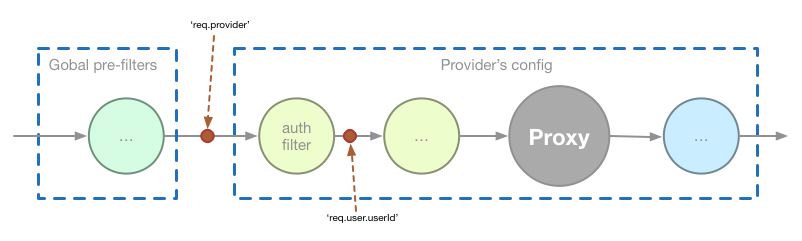
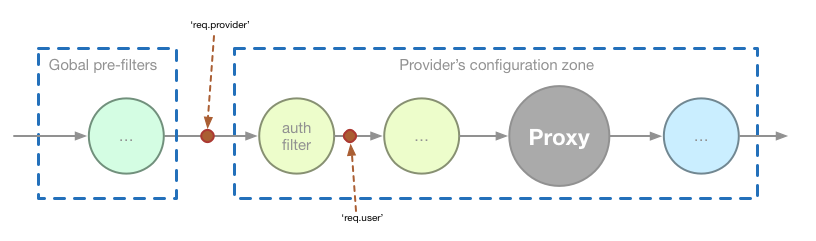
Modified so Clyde stores req.provider object

diff --git a/lib/clyde.js b/lib/clyde.js
@@ -23,7 +23,7 @@ function registerProviderMiddleware(clyde, proxy, provider) {
   provider.prefilters.forEach(function(filter) {
     // This is only for log purposes
     clyde.use(provider.context, function(req, res, next) {
-      log.debug({req: req, filter: filter.name, provider: provider.name}, "Before apply prefilter on provider...");
+      log.debug({req: req, filter: filter.id, provider: provider.id}, "Before apply prefilter on provider...");
       next();
     });
 
@@ -34,10 +34,16 @@ function registerProviderMiddleware(clyde, proxy, provider) {
   // Add provider middleware
   clyde.use(provider.context, function(req, res, next) {
 
-    // Create flag to indicate request has been processes by a provider.
-    req.provider = provider.context;
+    // Store provider's information in the request. This allow to know the
+    // request has entered in the "provider's zone" and also passes information
+    // to filters that needs providers data.
+    req.provider = {
+      name: provider.id,
+      context: provider.context,
+      target: provider.target
+    };
 
-    log.debug({req: req, provider: provider.name, target: provider.target}, "Sending request to provider...");
+    log.debug({req: req, provider: provider.id, target: provider.target}, "Sending request to provider...");
 
     // Proxy request to the provider
     proxy.web(req, res, {
@@ -49,7 +55,7 @@ function registerProviderMiddleware(clyde, proxy, provider) {
 
     // Log proxy response
     proxy.on("proxyRes", function(proxyRes) {
-      log.debug({res: proxyRes, provider: provider.name, target: provider.target}, "Received response from provider...");
+      log.debug({res: proxyRes, provider: provider.id, target: provider.target}, "Received response from provider...");
     });
 
     // Wait response finished and continue middleware chain.
@@ -66,7 +72,7 @@ function registerProviderMiddleware(clyde, proxy, provider) {
 
     // This is only for log purposes
     clyde.use(provider.context, function(request, response, next) {
-      log.debug({res: response, filter: filter.name, provider: provider.name}, "After apply postfilter on provider...");
+      log.debug({res: response, filter: filter.id, provider: provider.id}, "After apply postfilter on provider...");
       next();
     });
   });
@@ -85,7 +91,7 @@ function registerPrefiltersMiddleware(clyde, prefilters) {
   prefilters.forEach(function(filter) {
     // This is only for log purposes
     clyde.use(function(req, res, next) {
-      log.debug({req: req, filter: filter.name}, "Before apply prefilter...");
+      log.debug({req: req, filter: filter.id}, "Before apply prefilter...");
       next();
     });
 
@@ -110,7 +116,7 @@ function registerPostfiltersMiddleware(clyde, postfilters) {
 
     // This is only for log purposes
     clyde.use(function(req, res, next) {
-      log.debug({res: res, filter: filter.name}, "After apply postfilter...");
+      log.debug({res: res, filter: filter.id}, "After apply postfilter...");
       next();
     });
   });
@@ -124,10 +130,10 @@ function registerPostfiltersMiddleware(clyde, postfilters) {
  * @param  {Error} err  Error instance
  * @param  {Request} req  Request instance
  * @param  {Response} res  Response instance
- * @param  {Function} next next function
+ * @param  {Function} next Next function
  * @returns {void}
  */
-function errorHandler(err, req, res, next) {
+function errorHandler(err, req, res, next) {  // eslint-disable-line no-unused-vars
   // NOTE: Some modules use 'statusCode' and others (like passport) uses 'status'.
   var statusCode = err.statusCode || err.status || 500;
 

diff --git a/lib/configuration.js b/lib/configuration.js
@@ -43,16 +43,16 @@ function loadMiddlewareFilters(filters) {
     filter = filters[index];
 
     // Check filter has required properties
-    if (!filter.name || !filter.path) {
+    if (!filter.id || !filter.path) {
       throw new InvalidConfiguration(InvalidConfiguration.INVALID_FILTER_MESSAGE, " At position " + index);
     }
 
     // Load filter module and initialize middleware filter
     modulePath = path.join(basePath, filter.path);
-    middleware = require(modulePath).init(filter.name, filter.config);
+    middleware = require(modulePath).init(filter.id, filter.config);
 
     result.push({
-      name: filter.name,
+      id: filter.id,
       path: modulePath,
       config: filter.config,
       middleware: middleware
@@ -85,7 +85,7 @@ function loadProviders(providers) {
     postfilters = [];
 
     // Check provider has required properties
-    if (!provider.context || !provider.name || !provider.target) {
+    if (!provider.context || !provider.id || !provider.target) {
       throw new InvalidConfiguration(InvalidConfiguration.INVALID_PROVIDER_MESSAGE, " At position " + index);
     }
 
@@ -99,8 +99,8 @@ function loadProviders(providers) {
 
     // Store provider information
     result.push({
+      id: provider.id,
       context: provider.context,
-      name: provider.name,
       target: provider.target,
       prefilters: prefilters,
       postfilters: postfilters
@@ -118,7 +118,7 @@ function Configuration() {
 
 Configuration.prototype.getPrefilterByName = function(name) {
   for (var i = 0; i < this.prefilters.length; i++) {
-    if (this.prefilters[i].name === name) {
+    if (this.prefilters[i].id === name) {
       return this.prefilters[i];
     }
   }

diff --git a/filters/simple-rate-limit/index.js b/filters/simple-rate-limit/index.js
@@ -285,39 +285,6 @@ function applyProviderConsumerLimit(providersLimiters, providerId, consumerId, c
  * Limits can be applied globally, on a concrete provider, on a concrete
  * consumer or on a concrete provider's consumer.
  *
- * Allowed configuration properties:
- *
- * @example
- * {
- *   "global" : {
- *     "tokens" : 150,
- *     "interval" : "hour"
- *   },
- *
- *   "consumers" : {
- *     "userA" : {
- *       "tokens" : 150,
- *       "interval" : "hour"
- *     }
- *   },
- *
- *   "providers" : {
- *     "providerA" : {
- *       "global" : {
- *         "tokens" : 150,
- *         "interval" : "hour"
- *       },
- *
- *       "consumers" : {
- *         "userA" : {
- *           "tokens" : 150,
- *           "interval" : "hour"
- *         }
- *       }
- *     }
- *   }
- * }
- *
  * @public
  * @param  {String} name Name of the filter
  * @param  {object} config JavaScript object with filter configuration
@@ -334,8 +301,10 @@ module.exports.init = function(name, config) {
   // Return middleware function that applies rates limits
   return function(req, res, next) {
 
-    var consumerId,
-        providerId = req.provider;
+    var consumerId, providerId;
+    if (req.provider && req.provider.context) {
+      providerId = req.provider.context;
+    }
     if (req.user && req.user.userId) {
       consumerId = req.user.userId;
     }

diff --git a/test/simple-rate-limit.test.js b/test/simple-rate-limit.test.js
@@ -55,11 +55,11 @@ describe("simple-rate-limit", function() {
 
     // Configuration allows 1 call per second, so first call must be fine and
     // the second must fail.
-    rateLimit.middleware({provider: "/providerA"}, {}, function(err) {
+    rateLimit.middleware({provider: { context: "/providerA" }}, {}, function(err) {
       expect(err).to.be.undefined;
     });
 
-    rateLimit.middleware({provider: "/providerA"}, {}, function(err) {
+    rateLimit.middleware({provider: { context: "/providerA" }}, {}, function(err) {
       expect(err.name).to.be.equal("RateLimitExceeded");
     });
   });
@@ -72,11 +72,11 @@ describe("simple-rate-limit", function() {
 
     // Configuration allows 1 call per second, so first call must be fine and
     // the second must fail.
-    rateLimit.middleware({provider: "/providerA", user: {userId: "userA"}}, {}, function(err) {
+    rateLimit.middleware({provider: { context: "/providerA" }, user: {userId: "userA"}}, {}, function(err) {
       expect(err).to.be.undefined;
     });
 
-    rateLimit.middleware({provider: "/providerA", user: {userId: "userA"}}, {}, function(err) {
+    rateLimit.middleware({provider: { context: "/providerA" }, user: {userId: "userA"}}, {}, function(err) {
       expect(err.name).to.be.equal("RateLimitExceeded");
     });
   });

diff --git a/filters/simple-hmac-auth/index.js b/filters/simple-hmac-auth/index.js
@@ -7,17 +7,6 @@ var Hmmac = require("hmmac");
  * Simple plain HMAC authentication implementation based on hmmac package.
  * Allowed configuration properties:
  *
- * @example
- * {
- *   "realm" : "clyde",
- *   "consumers" : {
- *     "keyA" : "secretA"
- *   }
- * }
- *
- * Only the "consumers" property is required and must contains at least one
- * consumer.
- *
  * @public
  * @param  {String} name Name of the filter
  * @param  {Object} config JavaScript object with filter configuration
@@ -56,6 +45,10 @@ module.exports.init = function(name, config) {
   // Custom responder function.
   function customResponder(valid, req, res, next) {
     if (valid === true) {
+      // Attach user information to the request (like passport strategies)
+      req.user = {
+        userId: '' // TODO - Get key reference
+      }
       return next();
     } else {
       res.statusCode = 401;

diff --git a/filters/simple-http-auth/index.js b/filters/simple-http-auth/index.js
@@ -11,18 +11,6 @@ var DigestStrategy = require("passport-http").DigestStrategy;
  * on passport-http.
  * Allowed configuration properties:
  *
- * @example
- * {
- *   "realm" : "clyde",
- *   "method" : "basic", // ["basic", "digest"]
- *   "consumers" : {
- *     "userA" : "passA"
- *   }
- * }
- *
- * Only the "consumers" property is required and must contains at least one
- * consumer.
- *
  * @public
  * @param  {String} name Name of the filter
  * @param  {object} config JavaScript object with filter configuration

diff --git a/filters/simple-access-log/index.js b/filters/simple-access-log/index.js
@@ -10,12 +10,6 @@ var morgan = require("morgan");
  * Simple access log implementation based on morgan. Allowed configuration
  * properties:
  *
- * @example
- * {
- *   "directory" : "./tmp/log",
- *   "file" : "access-%DATE%.log"
- * }
- *
  * @public
  * @param  {String} name Name of the filter
  * @param  {object} config JavaScript object with filter configuration

diff --git a/filters/request-size-limit/index.js b/filters/request-size-limit/index.js
@@ -5,11 +5,6 @@ var getRawBody = require('raw-body');
 /**
  * Blocks requests depending on its body's length.
  *
- * @example
- * {
- *   "limit" : "100b"
- * }
- *
  * @public
  * @param  {String} name Name of the filter
  * @param  {Object} config JavaScript object with filter configuration

diff --git a/test/request-size-limit.test.js b/test/request-size-limit.test.js
@@ -1,10 +1,10 @@
 "use strict";
 
-var expect = require("chai").expect;
 var config = require("./fixtures/config-request-size-limit.json");
 var http = require("http");
 var clyde = require("../lib/clyde");
 var request = require("supertest");
+
 
 describe("request-size-limit", function() {
 

diff --git a/filters/simple-rate-limit/README.md b/filters/simple-rate-limit/README.md
@@ -34,7 +34,7 @@ At least one property must be specified, that is, at least `global`, `consumers`
 {
   "prefilters" : [
     {
-      "name" : "rate-limit",
+      "id" : "rate-limit",
       "path" : "./filters/simple-rate-limit",
       "config" : {
         "global" : {
@@ -55,7 +55,7 @@ At least one property must be specified, that is, at least `global`, `consumers`
 {
   "prefilters" : [
     {
-      "name" : "rate-limit",
+      "id" : "rate-limit",
       "path" : "./filters/simple-rate-limit",
       "config" : {
         "providers" : {
@@ -81,7 +81,7 @@ At least one property must be specified, that is, at least `global`, `consumers`
 {
   "prefilters" : [
     {
-      "name" : "rate-limit",
+      "id" : "rate-limit",
       "path" : "./filters/simple-rate-limit",
       "config" : {
         "providers" : {

diff --git a/filters/simple-http-auth/README.md b/filters/simple-http-auth/README.md
@@ -22,7 +22,7 @@ All requests are authenticated using basic auth:
 {
   "prefilters" : [
     {
-      "name" : "basic-auth",
+      "id" : "basic-auth",
       "path" : "./filters/simple-http-auth",
       "config" : {
         "realm" : "clyde",
@@ -46,12 +46,12 @@ Only the requests addresses to the provider are authenticated with digest method
 {
   "providers" : [
     {
+      "id" : "some_provider",
       "context" : "/some_provider",
-      "name" : "some_provider",
       "target" : "http://some_server",
       "prefilters" : [
         {
-          "name" : "digest-auth",
+          "id" : "digest-auth",
           "path" : "./filters/simple-http-auth",
           "config" : {
             "realm" : "clyde",

diff --git a/filters/simple-access-log/README.md b/filters/simple-access-log/README.md
@@ -21,7 +21,7 @@ All request to any provider will be stored:
 {
   "prefilters" : [
     {
-      "name" : "logger",
+      "id" : "logger",
       "path" : "./filters/simple-access-log",
       "config" : {
         "directory" : "./tmp/log",
@@ -41,12 +41,12 @@ Only the requests addresses to the provider will be stored
 {
   "providers" : [
     {
+      "id" : "some_provider",
       "context" : "/some_provider",
-      "name" : "some_provider",
       "target" : "http://some_server",
       "prefilters" : [
         {
-          "name" : "logger",
+          "id" : "logger",
           "path" : "./filters/simple-access-log",
           "config" : {
             "directory" : "./tmp/log",
